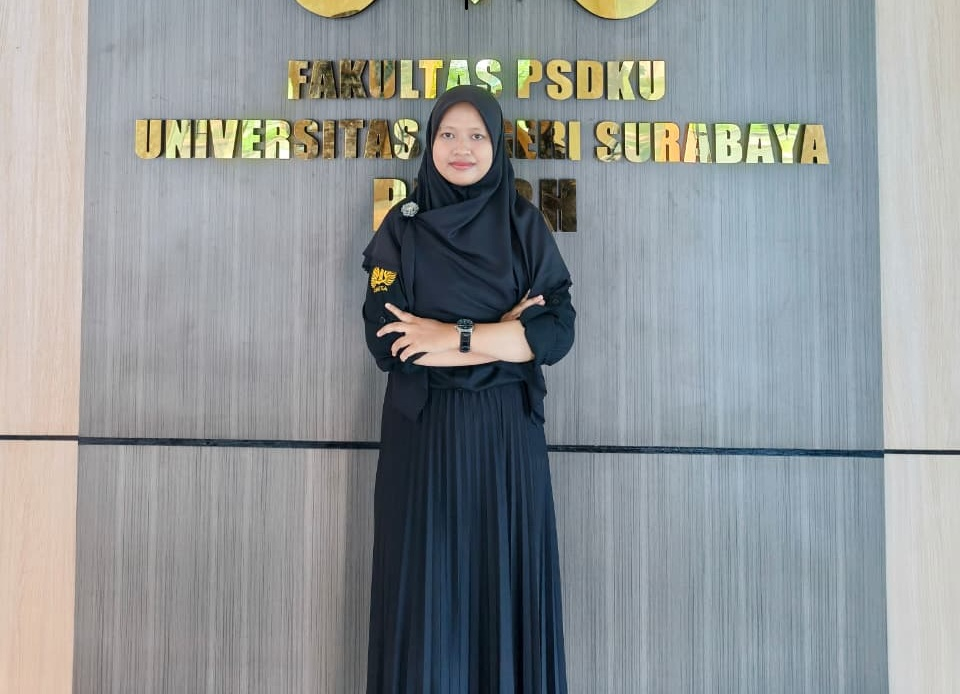
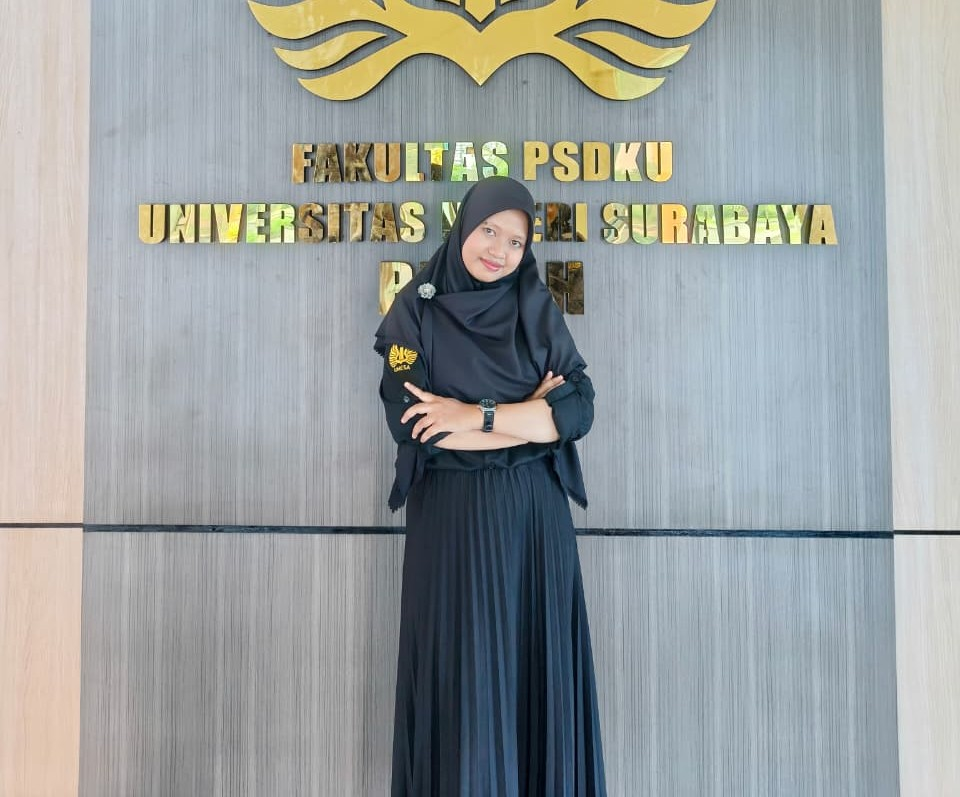
airin

diff --git a/lib/pages/pengembang_page.dart b/lib/pages/pengembang_page.dart
@@ -27,12 +27,12 @@ class _PengembangPageState extends State<PengembangPage> {
       "instagram": "https://instagram.com/",
     },
     {
-      "Nama": "Rifda",
-      "NIM": "iSI SENDIRI",
-      "Quotes": "ISI SENDIRI",
+      "Nama": "Almas Rifda Zatadin",
+      "NIM": "24111814025",
+      "Quotes": "Selalu ikuti kata hatimu. Namun, ingat, bawalah otakmu juga.",
       "img": "assets/foto pengembang/rifda.jpg",
-      "github": "https://github.com/",
-      "instagram": "https://instagram.com/",
+      "github": "https://github.com/025-rifda",
+      "instagram": "https://instagram.com/rizenka.airin0701",
     },
     {
       "Nama": "Chantika",
